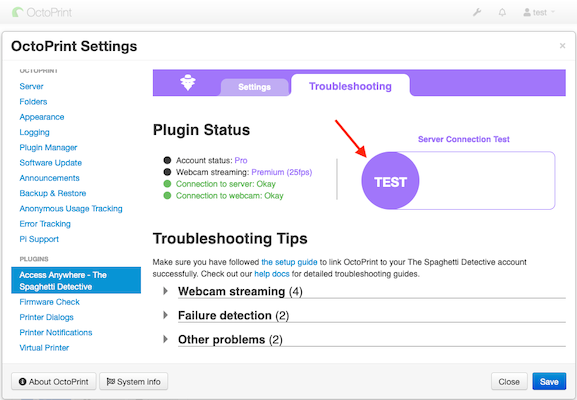
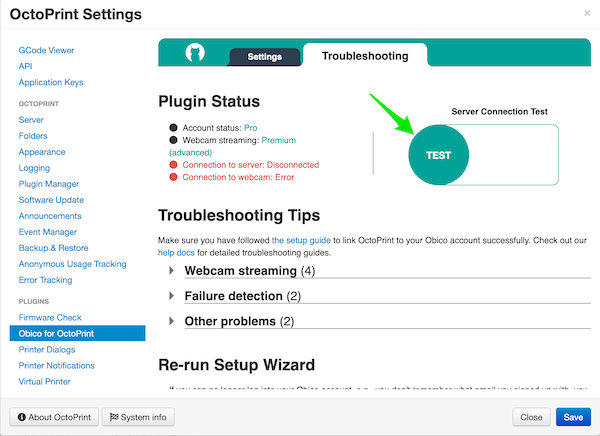
Disconnected printer error message based on agent name

diff --git a/frontend/src/components/printers/PrinterActions.vue b/frontend/src/components/printers/PrinterActions.vue
@@ -85,8 +85,9 @@
     <div
       class="col-12 text-center py-2 text-warning"
     >
-      <div>Printer is not connected to OctoPrint.</div>
+      <div>Printer not connected at the serial port.</div>
       <button
+        v-if="!printer.isAgentMoonraker()"
         id="connect-printer"
         type="button"
         class="btn btn-outline-primary btn-block mt-2"
@@ -104,8 +105,8 @@
       class="col-12 text-center py-3 text-warning"
     >
       <div>
-        OctoPrint is not powered on, or is offline.
-        <a target="_blank" href="https://www.obico.io/docs/user-guides/octoprint-is-offline/">Why? <small><i class="fas fa-external-link-alt"></i></small></a>
+        Obico for {{ printer.isAgentMoonraker() ? 'Klipper' : 'OctoPrint' }} is Offline.
+        <a target="_blank" href="https://www.obico.io/docs/user-guides/troubleshoot-server-connection-issues/">Why? <small><i class="fas fa-external-link-alt"></i></small></a>
       </div>
     </div>
   </div>
@@ -127,7 +128,7 @@ export default {
   computed: {
     connecting() {
       return this.connectBtnClicked && this.printer.isDisconnected()
-    }
+    },
   },
   methods: {
     onPauseToggled(ev) {

diff --git a/frontend/src/views/PrinterSettingsPage.vue b/frontend/src/views/PrinterSettingsPage.vue
@@ -219,7 +219,7 @@
                         Re-Link Printer
                   </a>
                   <div class="text-muted mt-1">
-                    <small>If your OctoPrint is always showing as "offline", and you have gone through <a href="https://www.obico.io/docs/user-guides/octoprint-is-offline/">all the trouble-shooting steps</a>, you can try to re-link OctoPrint as the last resort.</small>
+                    <small>If your OctoPrint is always showing as "offline", and you have gone through <a href="https://www.obico.io/docs/user-guides/troubleshoot-server-connection-issues/">all the trouble-shooting steps</a>, you can try to re-link OctoPrint as the last resort.</small>
                   </div>
                 </div>
                 <div class="mt-4">

diff --git a/frontend/src/lib/normalizers.js b/frontend/src/lib/normalizers.js
@@ -36,6 +36,7 @@ export const normalizedPrinter = (newData, oldData) => {
     inTransientState: function() { return !this.hasError() && get(this, 'status.state.text', '').includes('ing') && !get(this, 'status.state.text', '').includes('Printing') },
     inUserInteractionRequired: function() { return get(this, 'status.user_interaction_required', false) },
     hasError: function() { return get(this, 'status.state.flags.error') || get(this, 'status.state.text', '').toLowerCase().includes('error') },
+    isAgentMoonraker: function() { return get(this, 'settings.agent_name', '') === 'moonraker_obico'},
     alertUnacknowledged: function() {
       return get(this, 'current_print.alerted_at')
                 && moment(

diff --git a/website/src/components/FeaturedGuides/index.js b/website/src/components/FeaturedGuides/index.js
@@ -8,10 +8,6 @@ const LinksList = [
     route: '/docs/user-guides/detective-not-watching/',
   },
   {
-    title: 'Why is OctoPrint showing as "offline"?',
-    route: '/docs/user-guides/octoprint-is-offline/',
-  },
-  {
     title: 'What is AI Detection Hour and how does it work?',
     route: '/docs/user-guides/how-does-detective-hour-work/',
   },

diff --git a/backend/api/octoprint_messages.py b/backend/api/octoprint_messages.py
@@ -52,8 +52,6 @@ def settings_dict(octoprint_settings):
     settings.update(
         tsd_plugin_version=octoprint_settings.get('tsd_plugin_version', ''),
         octoprint_version=octoprint_settings.get('octoprint_version', ''),
-        client_id=octoprint_settings.get('client_id', ''),
-        client_version=octoprint_settings.get('client_version', ''),
     )
     settings.update(
         dict(('agent_' + k, str(v)) for k, v in octoprint_settings.get('agent', {}).items())

diff --git a/website/docs/user-guides/troubleshoot-server-connection-issues.md b/website/docs/user-guides/troubleshoot-server-connection-issues.md
@@ -1,32 +1,38 @@
 ---
-id: troubleshoot-server-connection-issues
-title: Troubleshoot server connection issues
-sidebar_label: Troubleshoot server connection issues
+title: Troubleshoot connection issues
 ---
 
-Server connection issues may be caused by:
+:::tip
+This troubleshooting guide is written for Obico for OctoPrint. If you are using Obico for Klipper, you can follow the similar steps to trace the root cause.
+:::
+
+## <span className="text--warning">Obico for OctoPrint is Offline</span>
+
+When you see this warning in the Obico app, it usually means Obico for Octoprint is either powered off, or having problems connecting to the Obico Server.
+
+If you are sure Obico for Octoprint is powered on and running, but you still see this warning message, it may be caused by:
 
 * OctoPrint doesn't have a reliable internet connection.
-* OctoPrint is not properly linked (paired) to your The Spaghetti Detective account.
+* OctoPrint is not properly linked (paired) to your Obico account.
 
 :::info
 
-The Spaghetti Detective consists of 2 parts:
+Obico for OctoPrint consists of 2 parts:
 
 * A plugin that runs inside your OctoPrint.
-* The Spaghetti Detective server that runs in the cloud (or on your PC if you are running a private server).
+* The Obico server that runs in the cloud (or on your PC if you are running a self-hosted server).
 
-The Spaghetti Detective won't work properly when the plugin can't connect to The Spaghetti Detective server.
+Obico won't work properly when the plugin can't connect to the server.
 
 :::
 
-The Spaghetti Detective plugin provides a powerful set of tools to help you troubleshoot server connection issues.
+The Obico for OctoPrint plugin provides a powerful set of tools to help you troubleshoot server connection issues.
 
 ## 1. Open the troubleshooting page.
 
 1. Open OctoPrint settings page by clicking the wrench icon.
 1. Scroll down the navigation bar on the left side.
-1. Click "Access Anywhere - The Spaghetti Detective" tab.
+1. Click "Obico for OctoPrint" tab.
 1. Click the "Troubleshooting" button.
 
 ![](/img/user-guides/helpdocs/open-troubleshooting-page.gif)
@@ -43,13 +49,11 @@ Based on what the test result shows, click one of the following links to continu
 
 ### 2.1 If the test result is "<span className="text--danger">Failed to contact server</span>":
 
-![](/img/user-guides/helpdocs/tsd-plugin-failed-to-connect.png)
-
 Most likely, this error means the plugin is configured to point to the wrong server address. To check it:
 
 1. Open OctoPrint settings page by clicking the wrench icon.
 2. Scroll down the navigation bar on the left side.
-3. Click "Access Anywhere - The Spaghetti Detective" tab.
+3. Click "Obico for OctoPrint" tab.
 4. Click the "Settings" button.
 
 ![](/img/user-guides/helpdocs/tsd-plugin-open-settings-page.gif)
@@ -58,42 +62,26 @@ Most likely, this error means the plugin is configured to point to the wrong ser
 
 ![](/img/user-guides/helpdocs/tsd-plugin-server-address.png)
 
-Make sure the "**Server Address**" field is:
+- If you are using the Obico Cloud, make sure it's set correctly that way.
 
-`https://app.obico.io`
-
-If it is not, please
-
-1. Click the "**Restore Default**" button to set it back.
-2. Click the "**Save**" button next to it.
-3. **Restart OctoPrint. The change won't take effect until the OctoPrint has been restarted.**
-
-:::note
-If you are running your own The Spaghetti Detective server, this field needs to be set to the one of your private server.
-:::
+- If you are using a self-hosted Obico Sever, make sure the server address is set to `https://your_server_host_name_or_ip_address:port`.
 
 If the server address is correct, and you still have server connection error, most likely the OctoPrint has issues with its Internet connection.
 
 ### 2.2 If the test result is "<span className="text--danger">Invalid account credentials</span>":
 
-![](/img/user-guides/helpdocs/tsd-plugin-invalid-credential.png)
-
-When you [set up The Spaghetti Detective plugin for the first time](/docs/user-guides/octoprint-plugin-setup), account credentials were established so that the plugin can connect to the server securely.
+When you [set up Obico for OctoPrint plugin for the first time](/docs/user-guides/octoprint-plugin-setup), account credentials were established so that the plugin can connect to the server securely.
 
 There are a few reasons why account credentials would become invalid later on:
 
-* You deleted the printer in The Spaghetti Detective mobile app or web app.
+* You deleted the printer in the Obico mobile app or web app.
 * Some of your printers are "archived" because you have more printers than what your subscription plan allows for.
 * You duplicated the OctoPrint SD card to run on anther Raspberry Pi, and duplicated the credentials in the process. When the server detects one set of credentials is being used by multiple printers, it will immediately blacklist the credentials because this usually indicates a security breach.
 
 
 #### 2.2.1 What if I deleted a printer by mistake
 
-The Detective doesn't make mistakes since she is a robot. But we humans do. 😜
-
-So don't feel bad if you deleted your printer in The Spaghetti Detective by mistake.
-
-We have made it super easy for you to [re-link your OctoPrint to your The Spaghetti Detective account](/docs/user-guides/octoprint-plugin-setup-manual-link) in less than 2 minutes.
+No need to fret. We have made it super easy for you to [re-link printer to your Obico account](/docs/user-guides/octoprint-plugin-setup-manual-link) in less than 2 minutes.
 
 #### 2.2.2 What if my printer was archived
 
@@ -117,8 +105,6 @@ Something weird is going on. You will need to [get help from a human](/docs/user
 
 ### 2.3 If the test result is "<span className="text--success">Succeeded</span>":
 
-![](/img/user-guides/helpdocs/tsd-plugin-succeeded.png)
-
 If the server test button shows "succeeded" but you still experience server connection issues, continue to the next step to check the detailed server connection status.
 
 ## 3. Check the detailed server connection status
@@ -139,11 +125,7 @@ Hmm, you got us. It looks like you are experiencing a problem the plugin's self-
 
 When robots failed, [humans will pitch in to help](/docs/user-guides/contact-us-for-support).
 
-:::info
-The Detective's speciality is in detecting spaghetti, not connection problems. Just saying...
-:::
-
-### 3.2 If the connection status is "<span className="text--danger">Disconnect</span>":
+### 3.2 If the connection status is "<span className="text--danger">Disconnected</span>":
 
 If the server test button shows "succeeded" but the "Connection to sever" row indicates "Disconnected", it is possible that you have run into a rare situation when the HTTP connection works, but the WebSocket connection doesn't.
 
@@ -159,11 +141,18 @@ The plugin connects to the server via 2 connections: HTTP and WebSocket. 99% of 
 
 When the status is "<span className="text--danger">Connection to server: Error</span>", it usually means your Raspberry Pi has an unreliable Internet connection. The problems can range from very occasional server glitches that doesn't affect the app at all, to a weak Wi-Fi signal strength that results in 50+% loss of network packets and an unusable app.
 
-Fortunately, The Spaghetti Detective plugin provides an diagnostic page that can help you further understand the severity of the server connection problem.
+Fortunately, Obico for OctoPrint plugin provides an diagnostic page that can help you further understand the severity of the server connection problem.
 
 1. Click the "<span className="text--danger">Connection to server: Error</span>" link to open the diagnostic page.
 ![](/img/user-guides/helpdocs/tsd-plugin-server-connection-error.jpg)
 2. [Find out the severity of the connectivity issue and the possible solution](/docs/user-guides/connectivity-error-report#how-to-assess-the-server-connectivity-issues).
+
+
+## Step 4: Turn on debug logging and look for the needle in the haystack.
+
+Time to get really technical if you have gone through all the previous steps and still can't figure out why Obico for OctoPrint is disconnected.
+
+Turn on debug logging and download `octoprint.log` file ([here is how](/docs/user-guides/turn-on-debug-logging)). Open `octoprint.log` file with your favorite editor and look for errors.
 
 ## None of the above solves the problem?
 

diff --git a/website/docs/user-guides/connectivity-error-report.md b/website/docs/user-guides/connectivity-error-report.md
@@ -3,7 +3,7 @@ id: connectivity-error-report
 title: Use the diagnostic page to help with troubleshooting
 ---
 
-The Spaghetti Detective plugin provides an advanced diagnostic page that can help you understand the severity of the connection issue that happen under the hood so that you can make informed decision if/how you should fix it.
+Obico for OctoPrint plugin provides an advanced diagnostic page that can help you understand the severity of the connection issue that happen under the hood so that you can make informed decision if/how you should fix it.
 
 ## Understand the Diagnostic Report
 
@@ -13,7 +13,7 @@ The Diagnostic Report may looks like this:
 
 Depending on whether or not there have been errors, there may be up to 2 parts in the report:
 
-1. This part displays the issues related to the connection to The Spaghetti Detective servers. This part will be missing if there have been no server connection errors since the restart of OctoPrint.
+1. This part displays the issues related to the connection to the Obico Server. This part will be missing if there have been no server connection errors since the restart of OctoPrint.
 1. This part displays the issues related to the connection to your webcam. This part will be missing if there have been no webcam errors since the restart of OctoPrint.
 
 ## How to assess the server connectivity issues
@@ -24,7 +24,7 @@ The info you need to assess the server connectivity issues is highlighted in thi
 
 #### Error rate
 
-When the error rate is smaller than 5%, it is usually not a problem as you can still use The Spaghetti Detective mobile app or web app just fine, often without even noticing even the slightest glitches.
+When the error rate is smaller than 5%, it is usually not a problem as you can still use Obico mobile app or web app just fine, often without even noticing even the slightest glitches.
 
 However, if the error rate is higher than 20%, you may want to take action to figure out what is wrong.
 
@@ -44,7 +44,7 @@ Please note only the errors happened in the current OctoPrint session. Errors fr
 
 ### 4.1 If the error rate is 100%:
 
-This means your OctoPrint has not connection to the server at all.
+This means your OctoPrint has no connection to the server at all.
 
 The problem is most likely networking-related, such as ill-configured Wi-Fi dongle, DNS configuration error, routing problem, restrictive firewall rules, etc.
 
@@ -53,7 +53,7 @@ Troubleshooting networking issues is outside the scope of this guide. But a good
 For instance, if you run OctoPrint on a Raspberry Pi, just like 90% of other OctoPrint users, the commands will be:
 
 1. SSH to the Raspberry Pi.
-1. Once you are on the Pi, run `curl https://app.obico.io/`. If the Pi has a good connection to the The Spaghetti Detective server, the command won't report any error.
+1. Once you are on the Pi, run `curl https://app.obico.io/`. If the Pi has a good connection to the Obico Server, the command won't report any error.
 
 :::note
 If you are not running the OctoPrint on a Raspberry Pi, the commands may be slightly different.

diff --git a/website/docs/api/api-objects.md b/website/docs/api/api-objects.md
@@ -90,8 +90,8 @@ An `Map` object. The `key` of the map is the name of the heater, such as "tool0"
 - `webcam_flipH`: `true` if the webcam is flipped horizontally. Otherwise `false`.
 - `webcam_streamRatio`: Webcam aspect ratio. Currently only	"4:3" and "16:9" are supported.
 - `webcam_rotate90`: `true` if the webcam is rotated 90 degrees clock-wise. Otherwise `false`.
-- `client_id`: The identifier for the "client" that connects to the server to represents the printer. Currently it can be either `octoprint_obico` or `moonraker_obico`.
-- `client_version`: The client version.
+- `agent_name`: The "agent" that connects to the server to represents the printer. Currently it can be either `octoprint_obico` or `moonraker_obico`.
+- `agent_version`: The version of the agent.
 - `temp_profiles`: An `List` of `Map` objects. The `key` of the map is the name of the heater, such as "chamber", "bed". The `value` of the map is the preset temperature.
 
 ## `TemperatureProfile`
